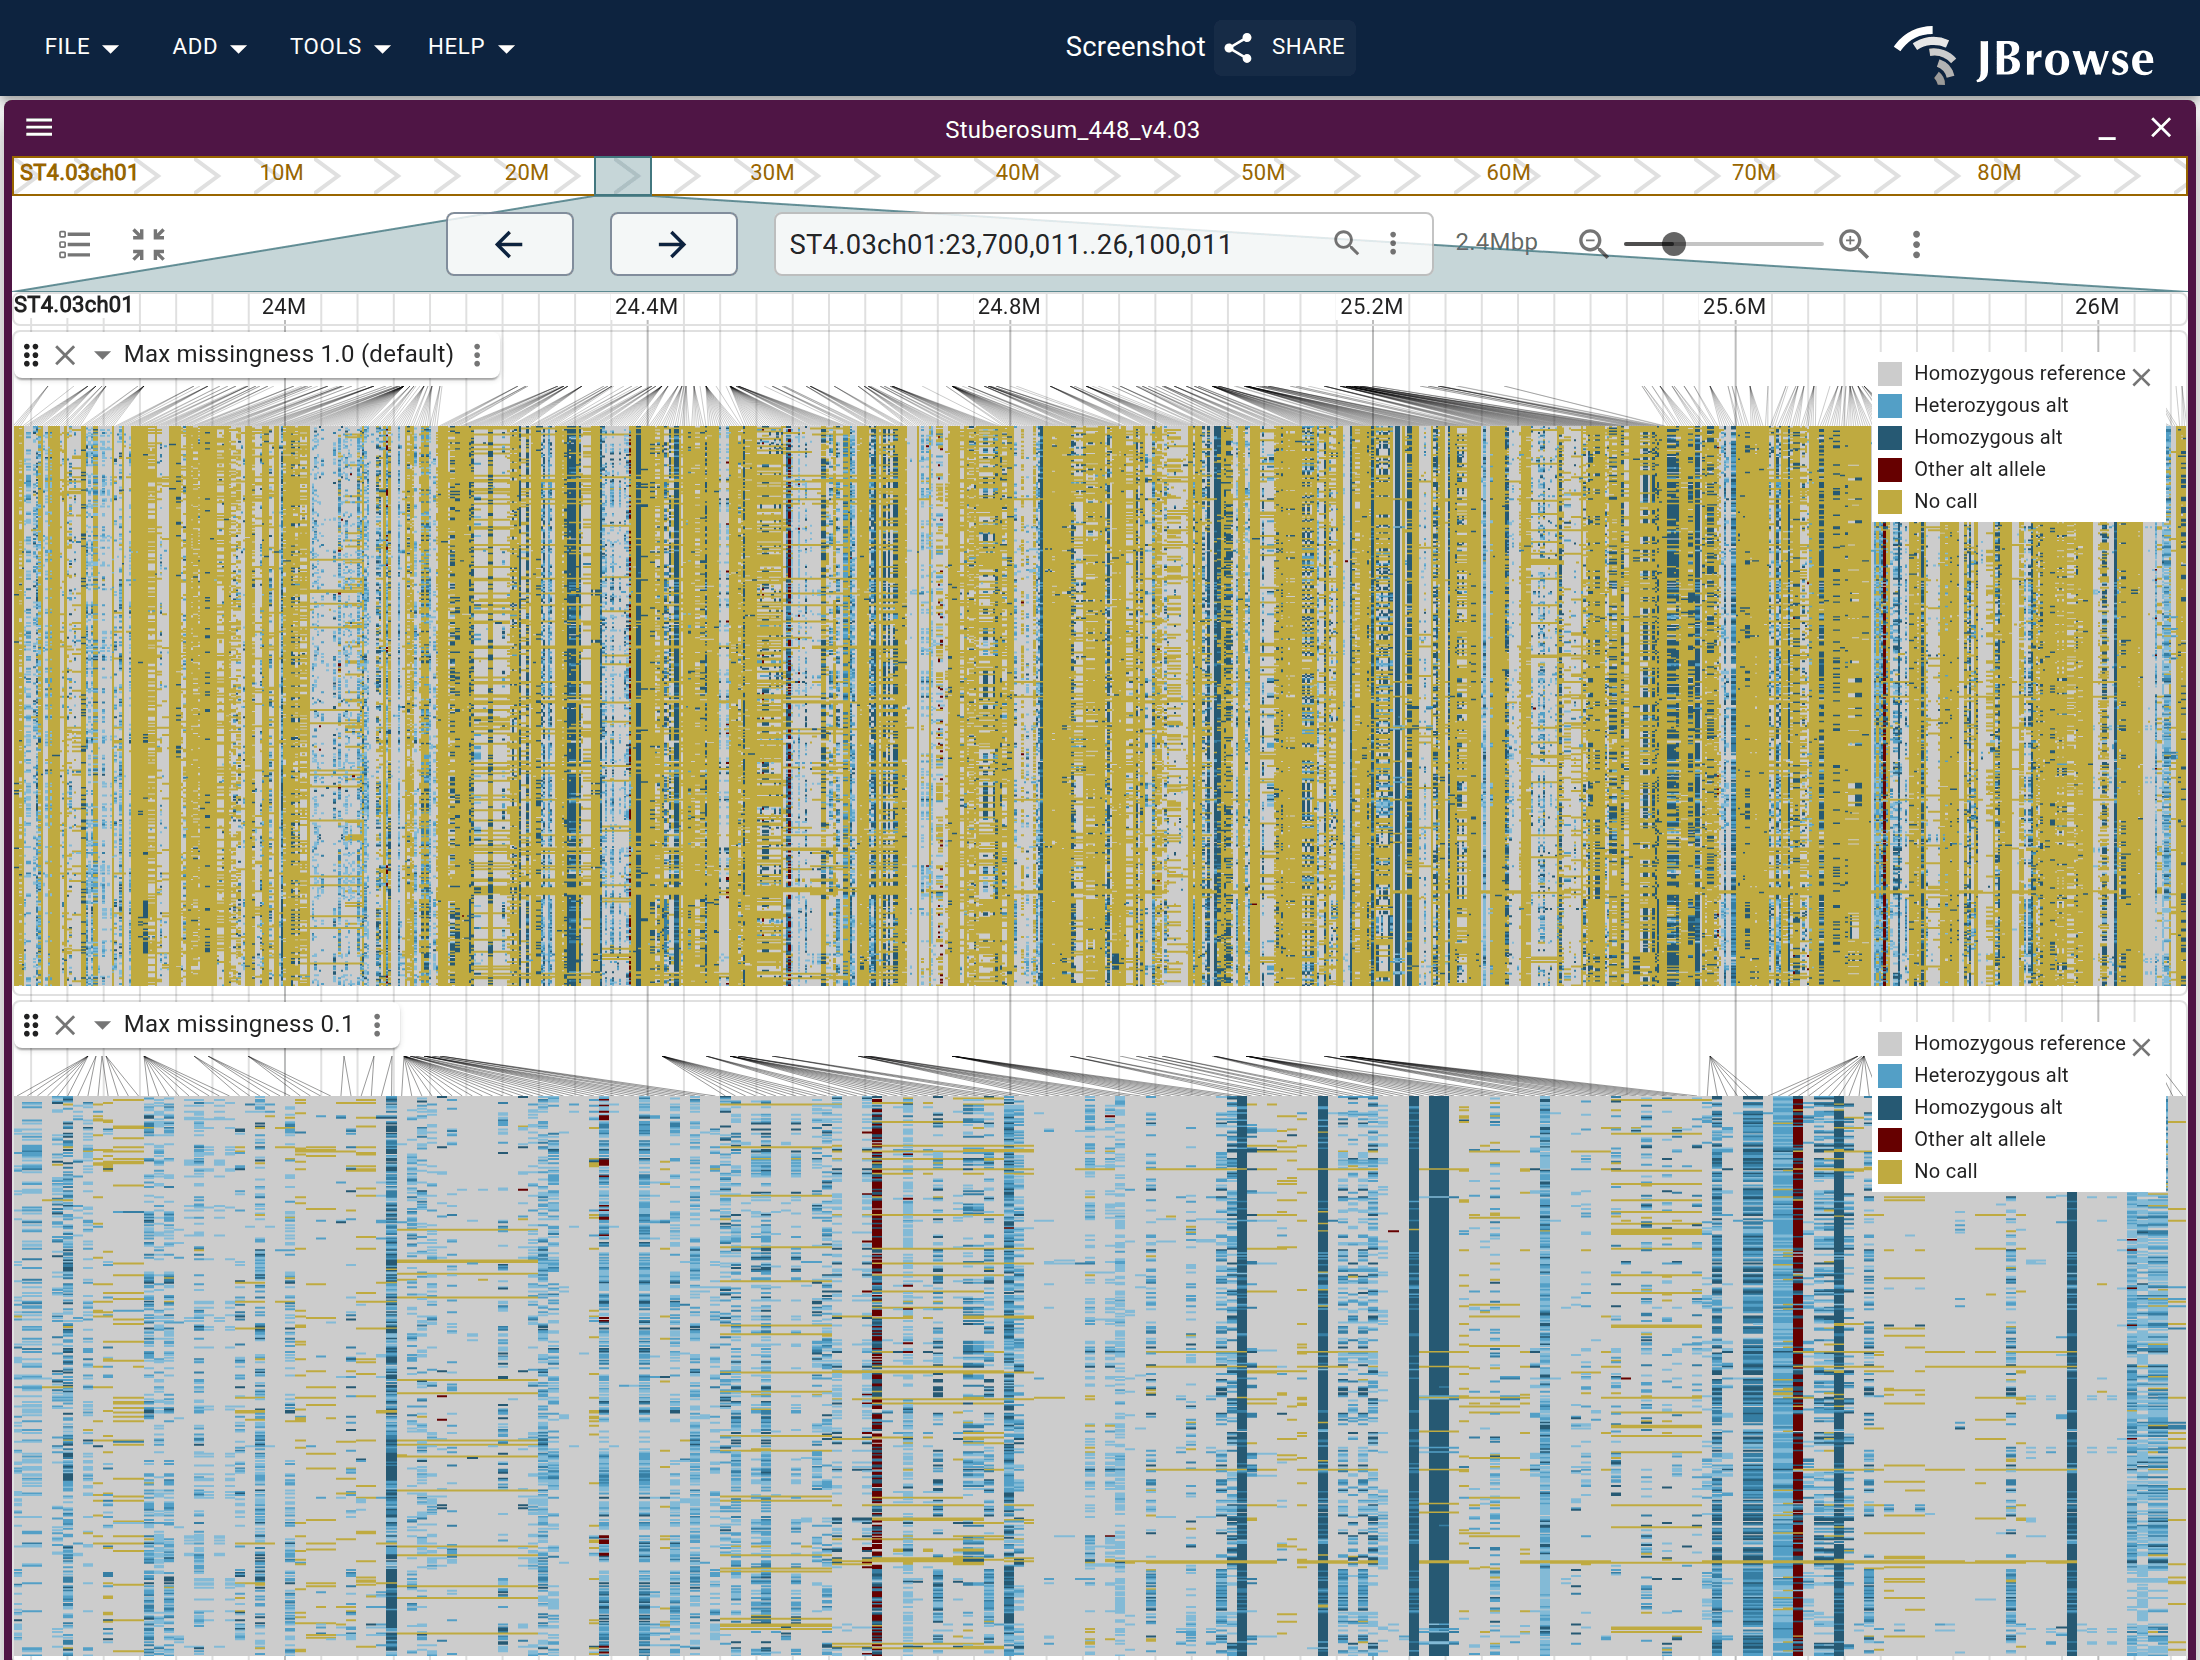
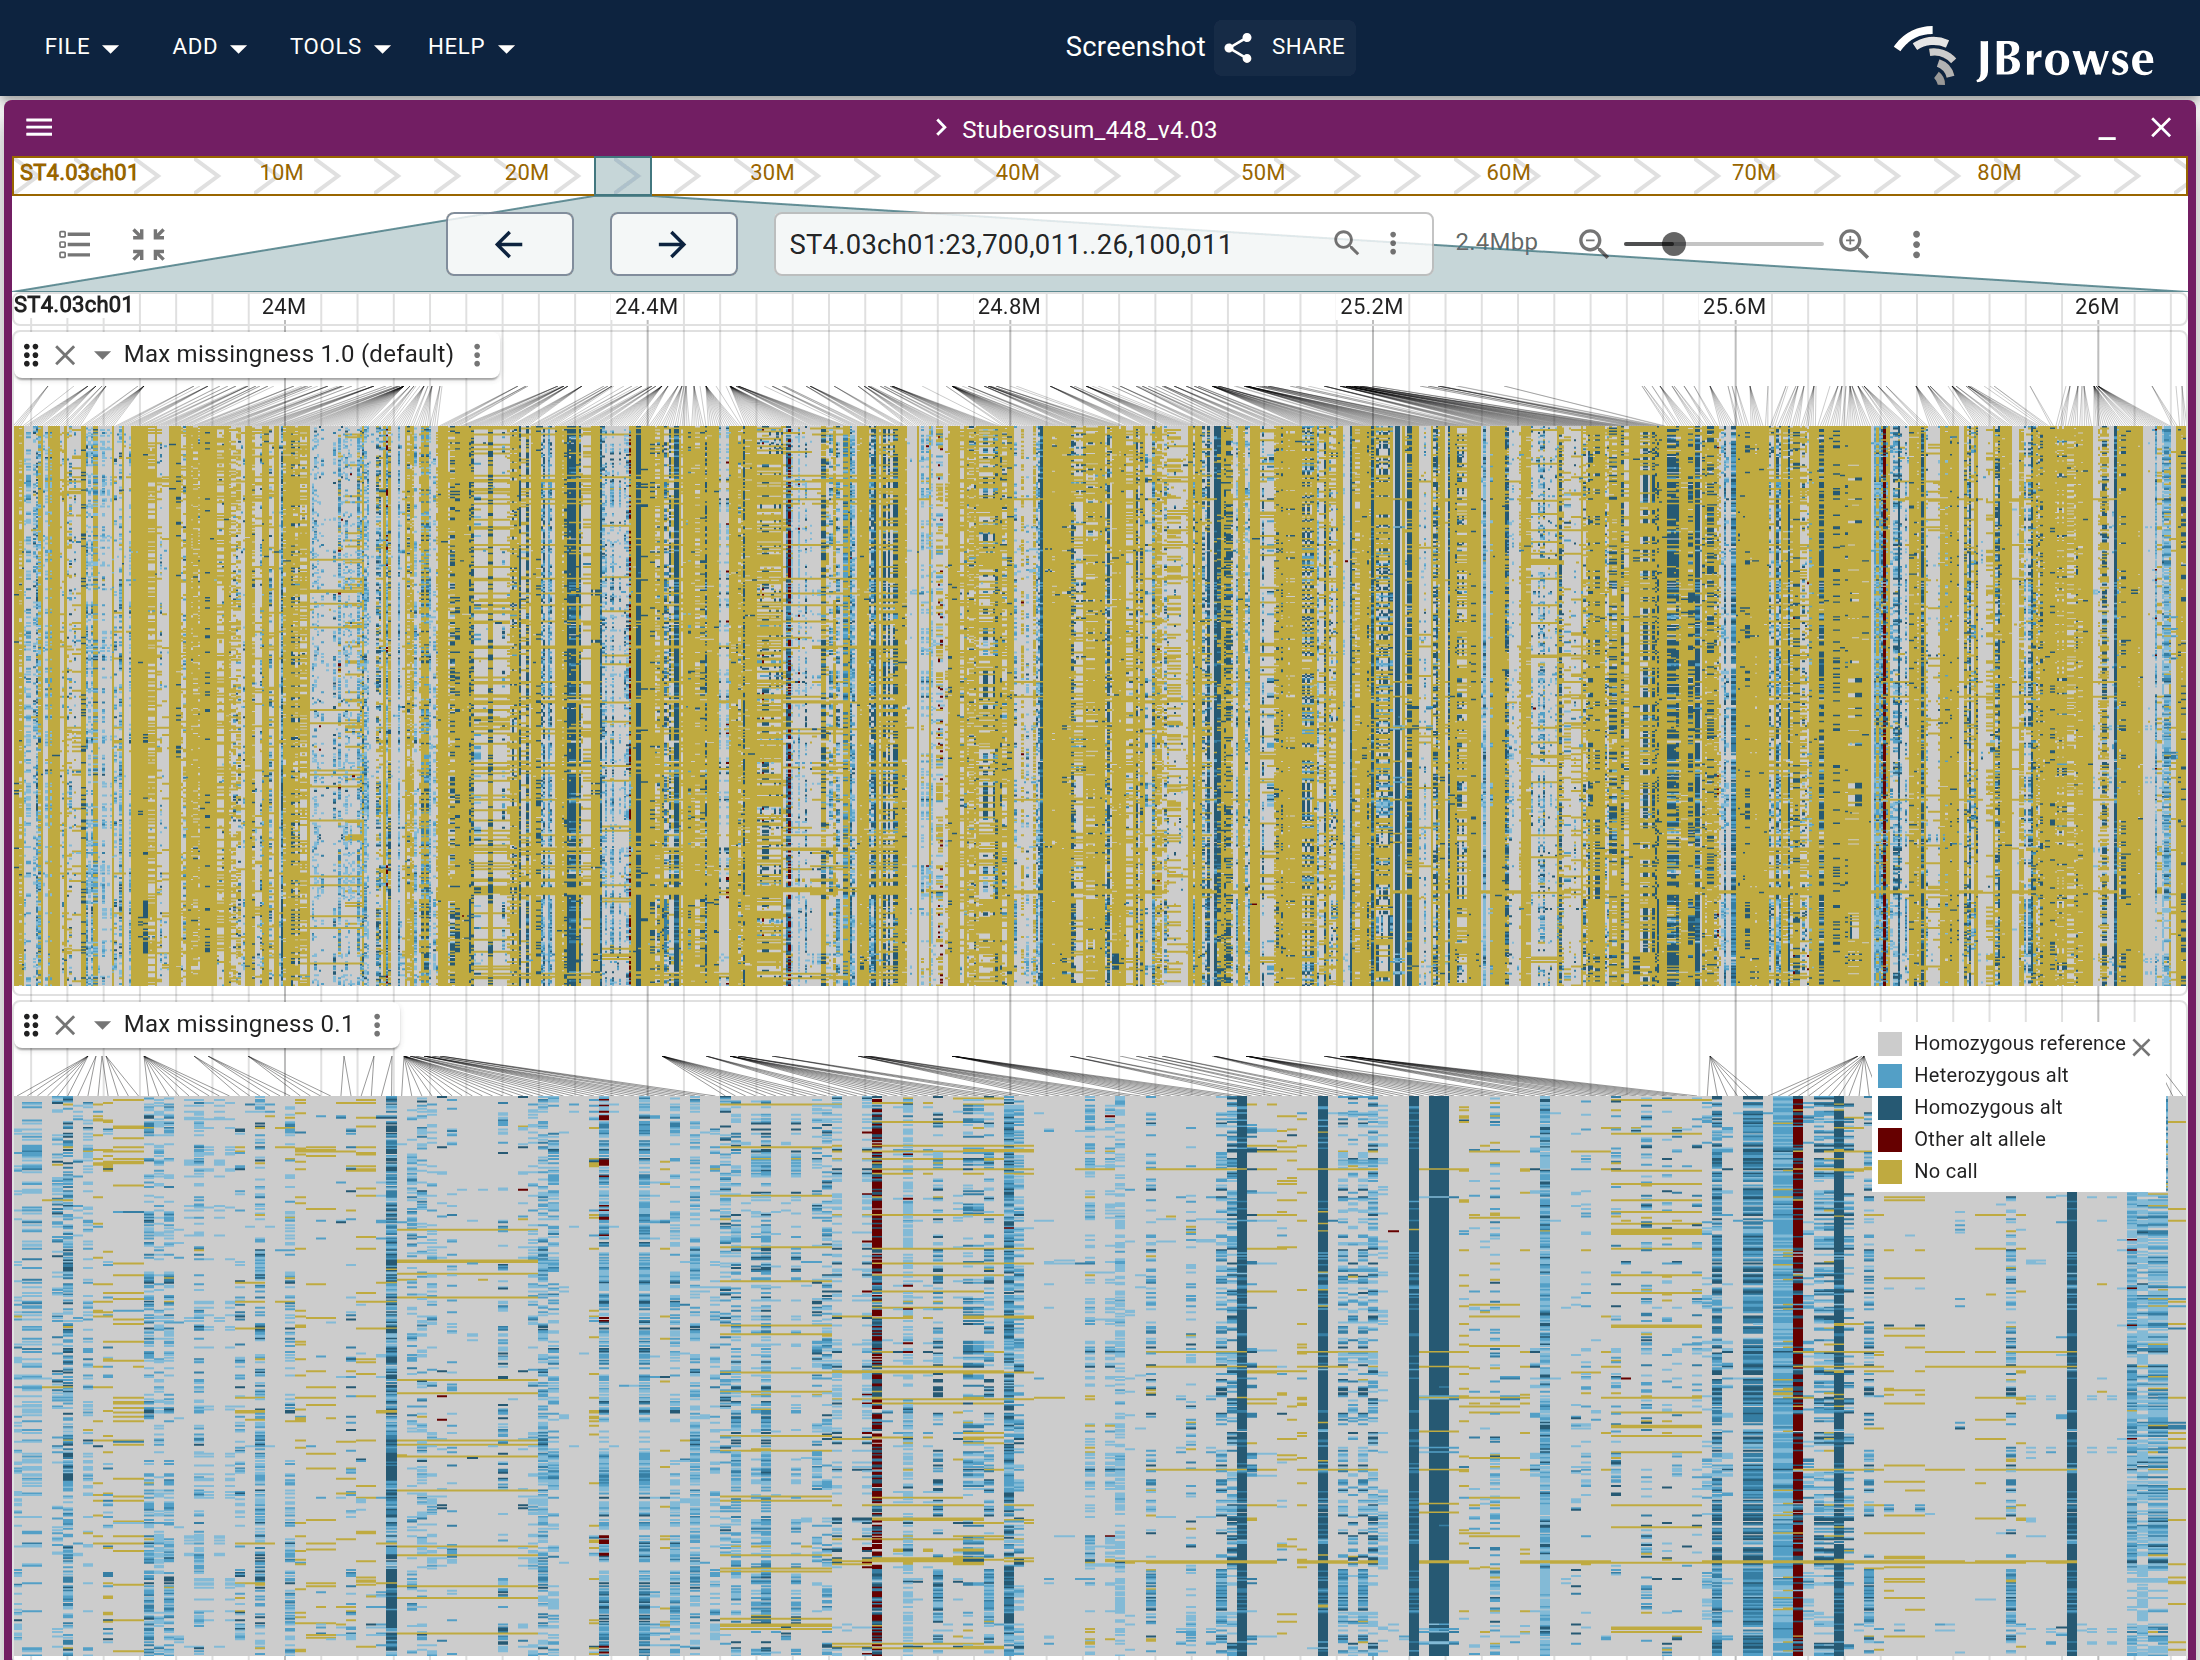
docs(variants): stop the potato figure paying for the same legend twice
Both lanes drew the same five-entry genotype key, and each copy sat over the
right ~13% of its own matrix. In a figure whose whole argument is how the two
textures differ across the window, that is the comparison being occluded to
say the same thing twice. The top lane's key is closed; the well-genotyped lane
keeps its own, where four categories are actually in play rather than a wall of
one color the caption already names in words.

It has to be a click: showLegend is volatile on MultiSampleVariantBaseModel, so
legend visibility is deliberately not session state and a spec cannot set it.
`actions` run after readySelector, so the button exists, and the generator
re-waits the display phases and re-asserts render-settled afterwards. The first
[title="Hide legend"] match is the top lane's because FloatingLegend portals
into its own TrackContainer's overlay node, so the two sit in track order.

The focused-view chevron the capture picks up is not new to this figure —
useFocusOnInteraction sets focusedViewId on any interaction, so every
action-driven capture already carries it (sequence_track.png, among others).

Claude-Session: https://claude.ai/code/session_01S99PXrFwch24MngnKnk314

Changed region(s): [[0.0, 0.0614, 1.0, 1.0]]

diff --git a/website/scripts/specs/variants.ts b/website/scripts/specs/variants.ts
@@ -292,6 +292,24 @@ export const variantsSpecs: ScreenshotSpec[] = [
     readySelector: '[data-testid="variant-matrix-display-done"]',
     readyTimeout: 120000,
     settleMs: 15000,
+    // Close the TOP lane's genotype key. Both lanes draw the same five entries
+    // over the same palette, and each copy hides the right ~13% of its own
+    // matrix — in a figure whose whole argument is how the two textures differ
+    // across the window, that is the comparison paying for the same legend
+    // twice. The one on the well-genotyped lane stays, where four categories
+    // are actually in play; the lane above it is a wall of one color that the
+    // caption names in words.
+    //
+    // A click rather than a session prop because `showLegend` is volatile on
+    // MultiSampleVariantBaseModel — legend visibility is deliberately not
+    // session state, so a spec cannot set it. `actions` run after
+    // `readySelector`, so the button exists, and the generator re-waits the
+    // display phases and re-asserts render-settled afterwards.
+    //
+    // The first match IS the top lane: FloatingLegend portals into its own
+    // TrackContainer's overlay node (TrackOverlayPortal), so the two legends sit
+    // in track order rather than in mount order.
+    actions: [{ type: 'click', selector: '[title="Hide legend"]' }],
     // Narrower than the 1500 default: the matrix reads as a texture rather than
     // as per-column detail, so it loses nothing, and the figure is then not
     // twice the page width when both lanes are in it.
